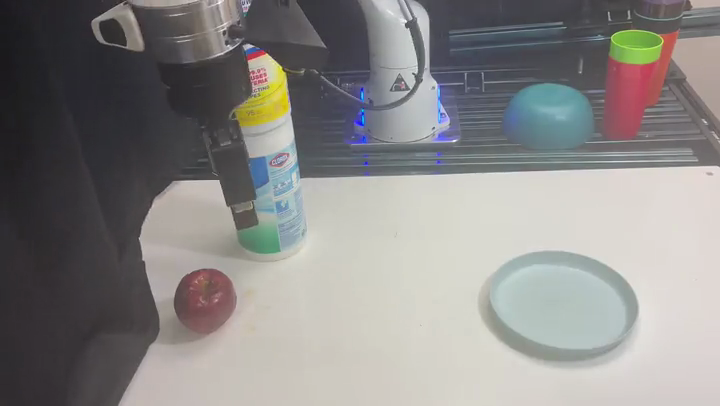
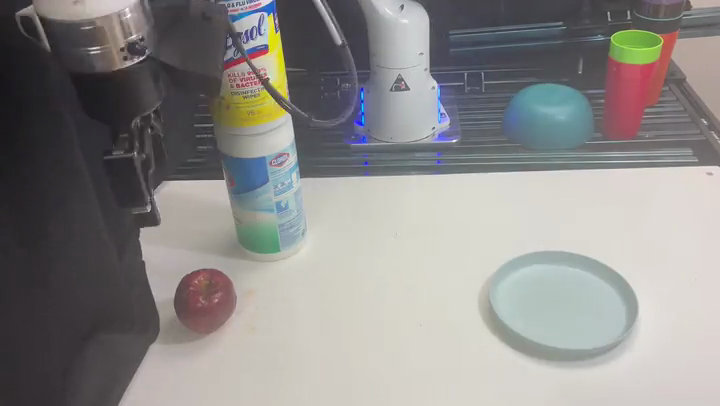
Use later frames for projection failure and CS-Pi grasp

diff --git a/assets/hardware/frames/captions.md b/assets/hardware/frames/captions.md
@@ -6,8 +6,8 @@ Frames extracted from the videos in `assets/hardware/` (24 fps, 720x406).
 |---|---|---|---|
 | `1_start_position.png` | `project_fail.mp4` | 2.0 s (frame 48) | Starting position: the robot is at rest, the apple and plate are on the table, and the wipes canister is stacked beside them. |
 | `2_gradient_guidance_failure.png` | `gradient_guidance.mp4` | 7.0 s (frame 168) | Gradient guidance failure: the robot retreats back towards the canister instead of continuing the task. |
-| `3_projection_failure.png` | `project_fail.mp4` | 2.96 s (frame 71, last frame of the third second) | Projection failure: the arm is pushed into the canister. |
+| `3_projection_failure.png` | `project_fail.mp4` | 3.33 s (frame 80) | Projection failure: the arm is pressed against the canister and tilts it. |
 | `4a_rejection_sampling_8s.png` | `trust_fail.mp4` | 8.0 s (frame 192) | Rejection sampling (1/3): the robot reaches down towards the apple next to the canister. |
 | `4b_rejection_sampling_11s.png` | `trust_fail.mp4` | 11.0 s (frame 264) | Rejection sampling (2/3): the gripper is at the apple, close to the canister. |
 | `4c_rejection_sampling_21s.png` | `trust_fail.mp4` | 21.0 s (frame 504) | Rejection sampling (3/3): the robot holds the apple, having moved away from the canister. |
-| `5_cspi.png` | `cspi_success_0.mp4` | 0.083 s (frame 2) | CS-Pi: start of the successful execution. |
+| `5_cspi.png` | `cspi_success_0.mp4` | 0.75 s (frame 18) | CS-Pi: the gripper has grasped the apple. |
